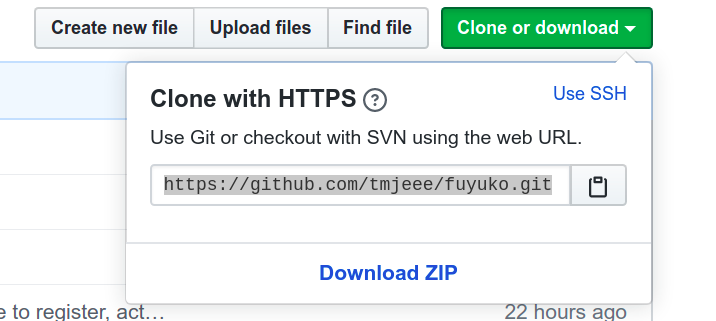
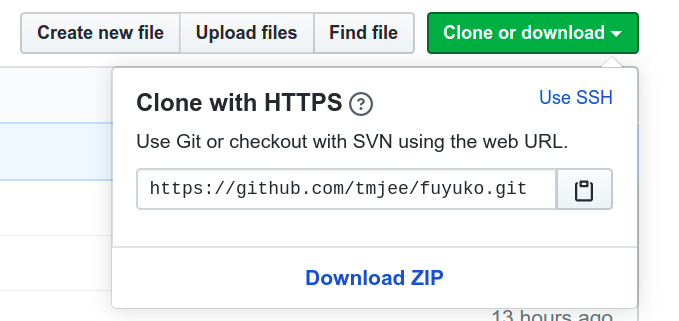
GitBook: [v1.0.0] 204 pages and 4 assets modified

Changed region(s): [[0.0, 0.0, 0.9588, 1.0], [0.433, 0.81, 0.6495, 0.9034]]

diff --git a/how-to-contribute.md b/how-to-contribute.md
@@ -4,13 +4,25 @@ Following are some suggested steps on how to contribute to the open source proje
 
 ## Step 1: Clone a copy of the project
 
-Open up [https://github.com/tmjeee/fuyuko](https://github.com/tmjeee/fuyuko) in a browser. On the top right corner, copy the web URL to Git repository.
+Open up [https://github.com/tmjeee/fuyuko](https://github.com/tmjeee/fuyuko) in a browser. At the top right corner click fork.
 
-![](.gitbook/assets/image%20%2814%29.png)
+![](.gitbook/assets/image%20%2816%29.png)
+
+This should create a fork.
+
+![](.gitbook/assets/image%20%2815%29%20%281%29.png)
+
+You should now be able to create a clone from the forked repository. The URL for cloning should be at the top right corner of the forked repositry page.
+
+![](.gitbook/assets/image%20%2818%29.png)
+
+Clone the repository using the following command.
 
 ```text
-$> git clone https://github.com/tmjeee/fuyuko.git
+$> git clone https://github.com/tmjee/fuyuko.git
 ```
+
+
 
 ## Step 2: Get it setup
 

diff --git a/developer-guide/untitled/requirements.md b/developer-guide/untitled/requirements.md
@@ -24,7 +24,7 @@ In [https://github.com/tmjeee/fuyuko](https://github.com/tmjeee/fuyuko) GitHub, 
 
 
 
-![](../../.gitbook/assets/image%20%2818%29.png)
+![](../../.gitbook/assets/image%20%2817%29.png)
 
 Unzip downloaded fuyuko zip file \(eg. fuyuko-1.0.0.zip\) downloaded
 
@@ -36,7 +36,7 @@ $> unzip fuyuko-1.0.0.zip
 
 In [https://github.com/tmjeee/fuyuko](https://github.com/tmjeee/fuyuko) GitHub, at the top right corner click clone or download.
 
-![](../../.gitbook/assets/image%20%2818%29.png)
+![](../../.gitbook/assets/image%20%2817%29.png)
 
 Clone the repository through the following command
 
